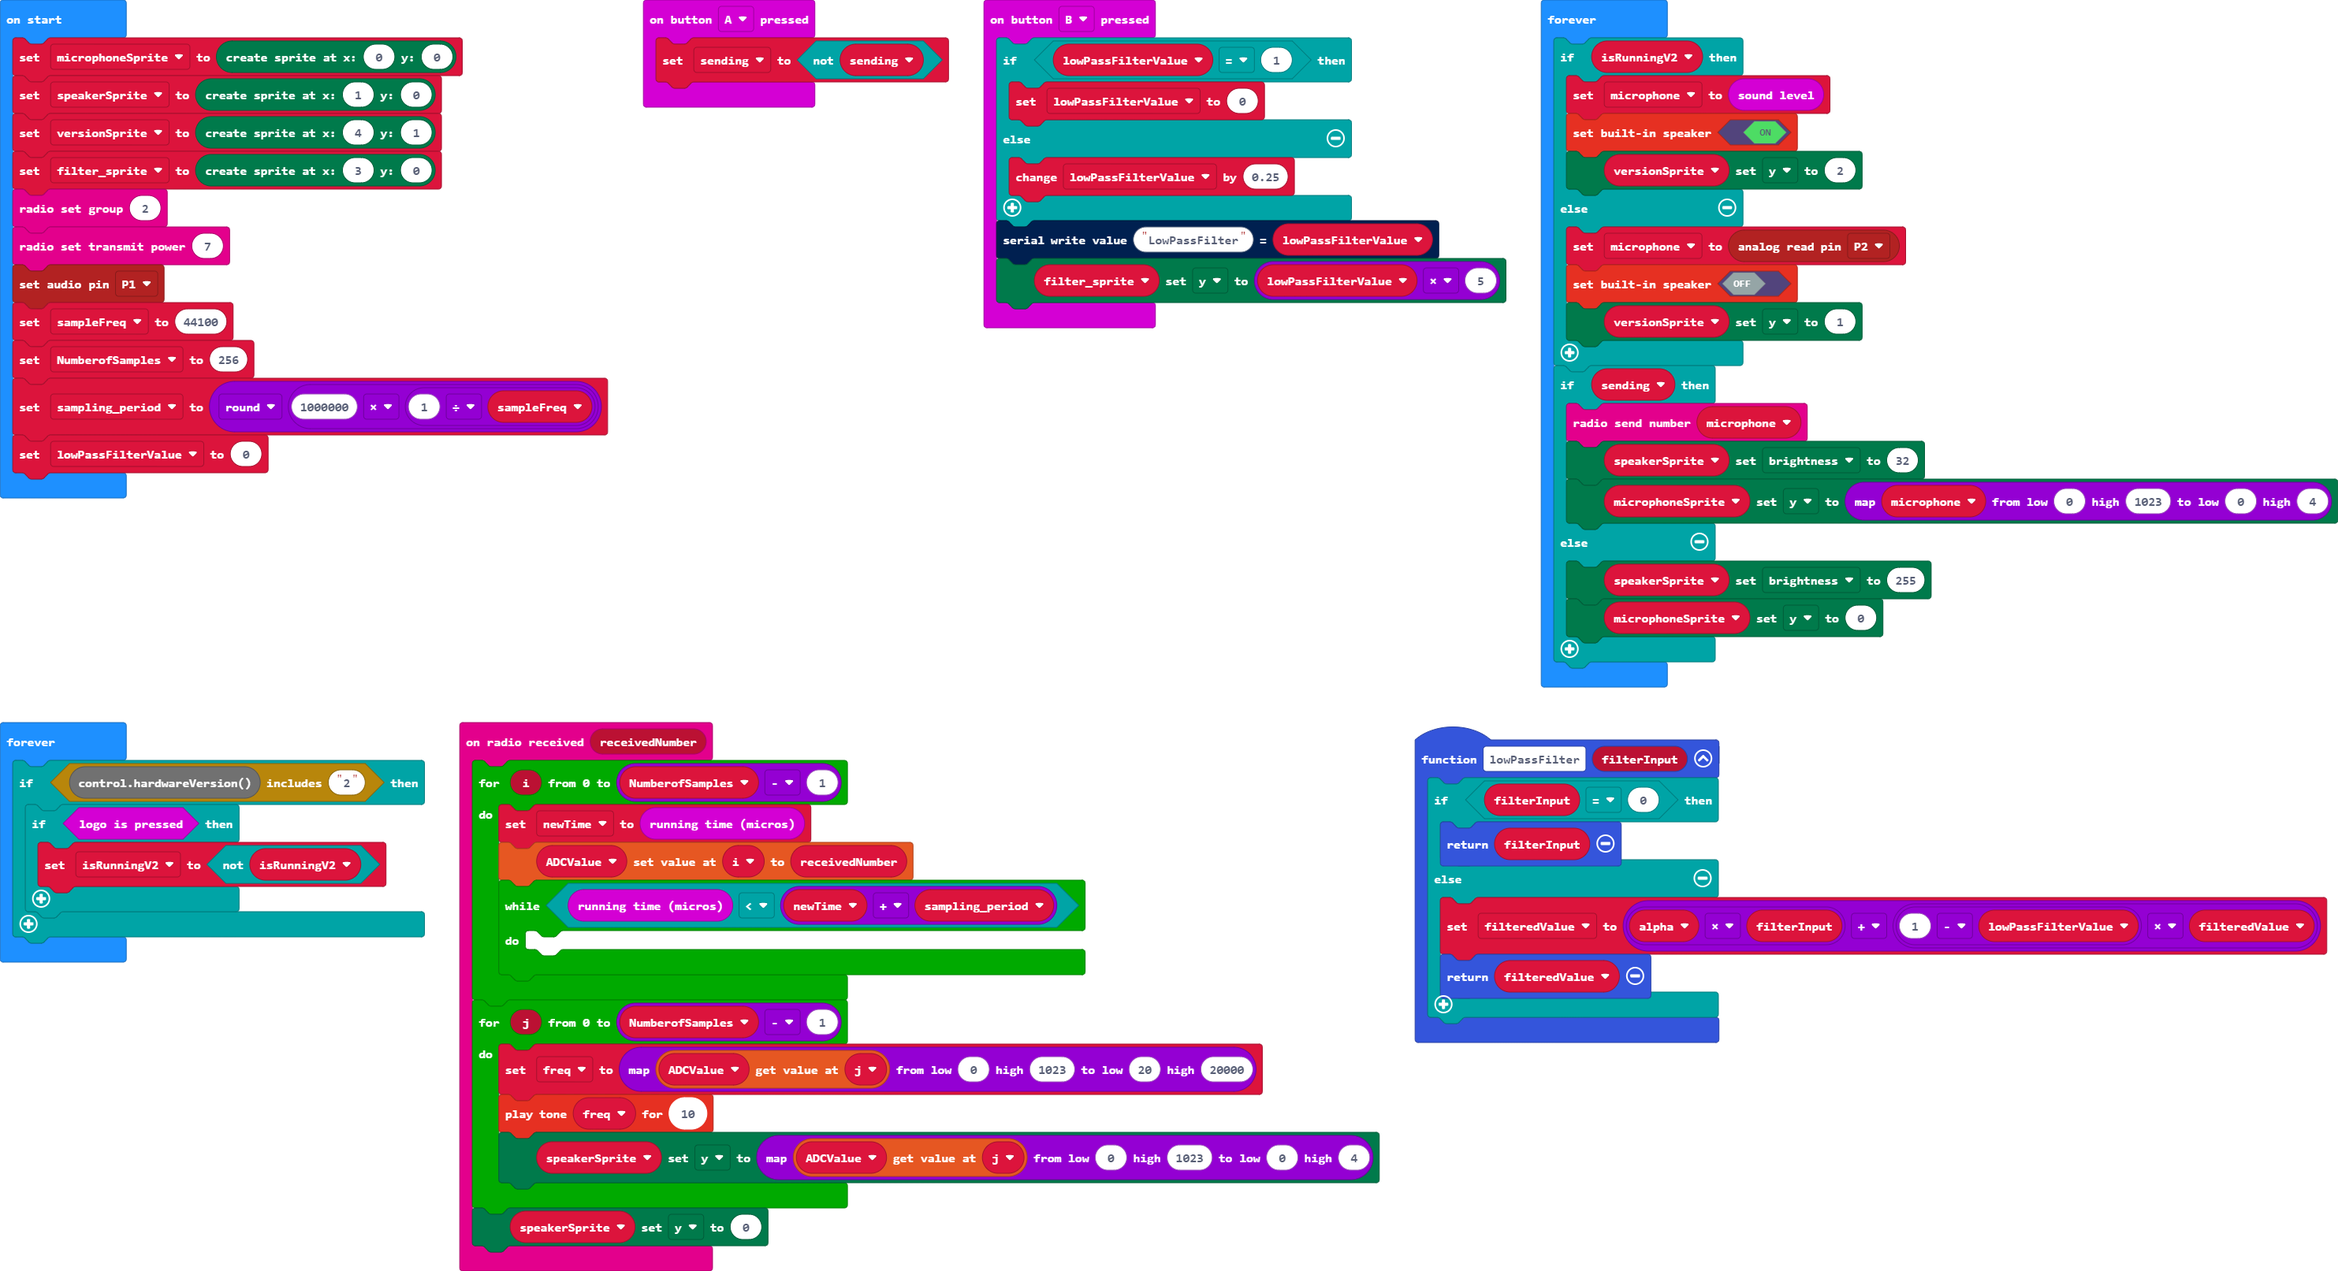
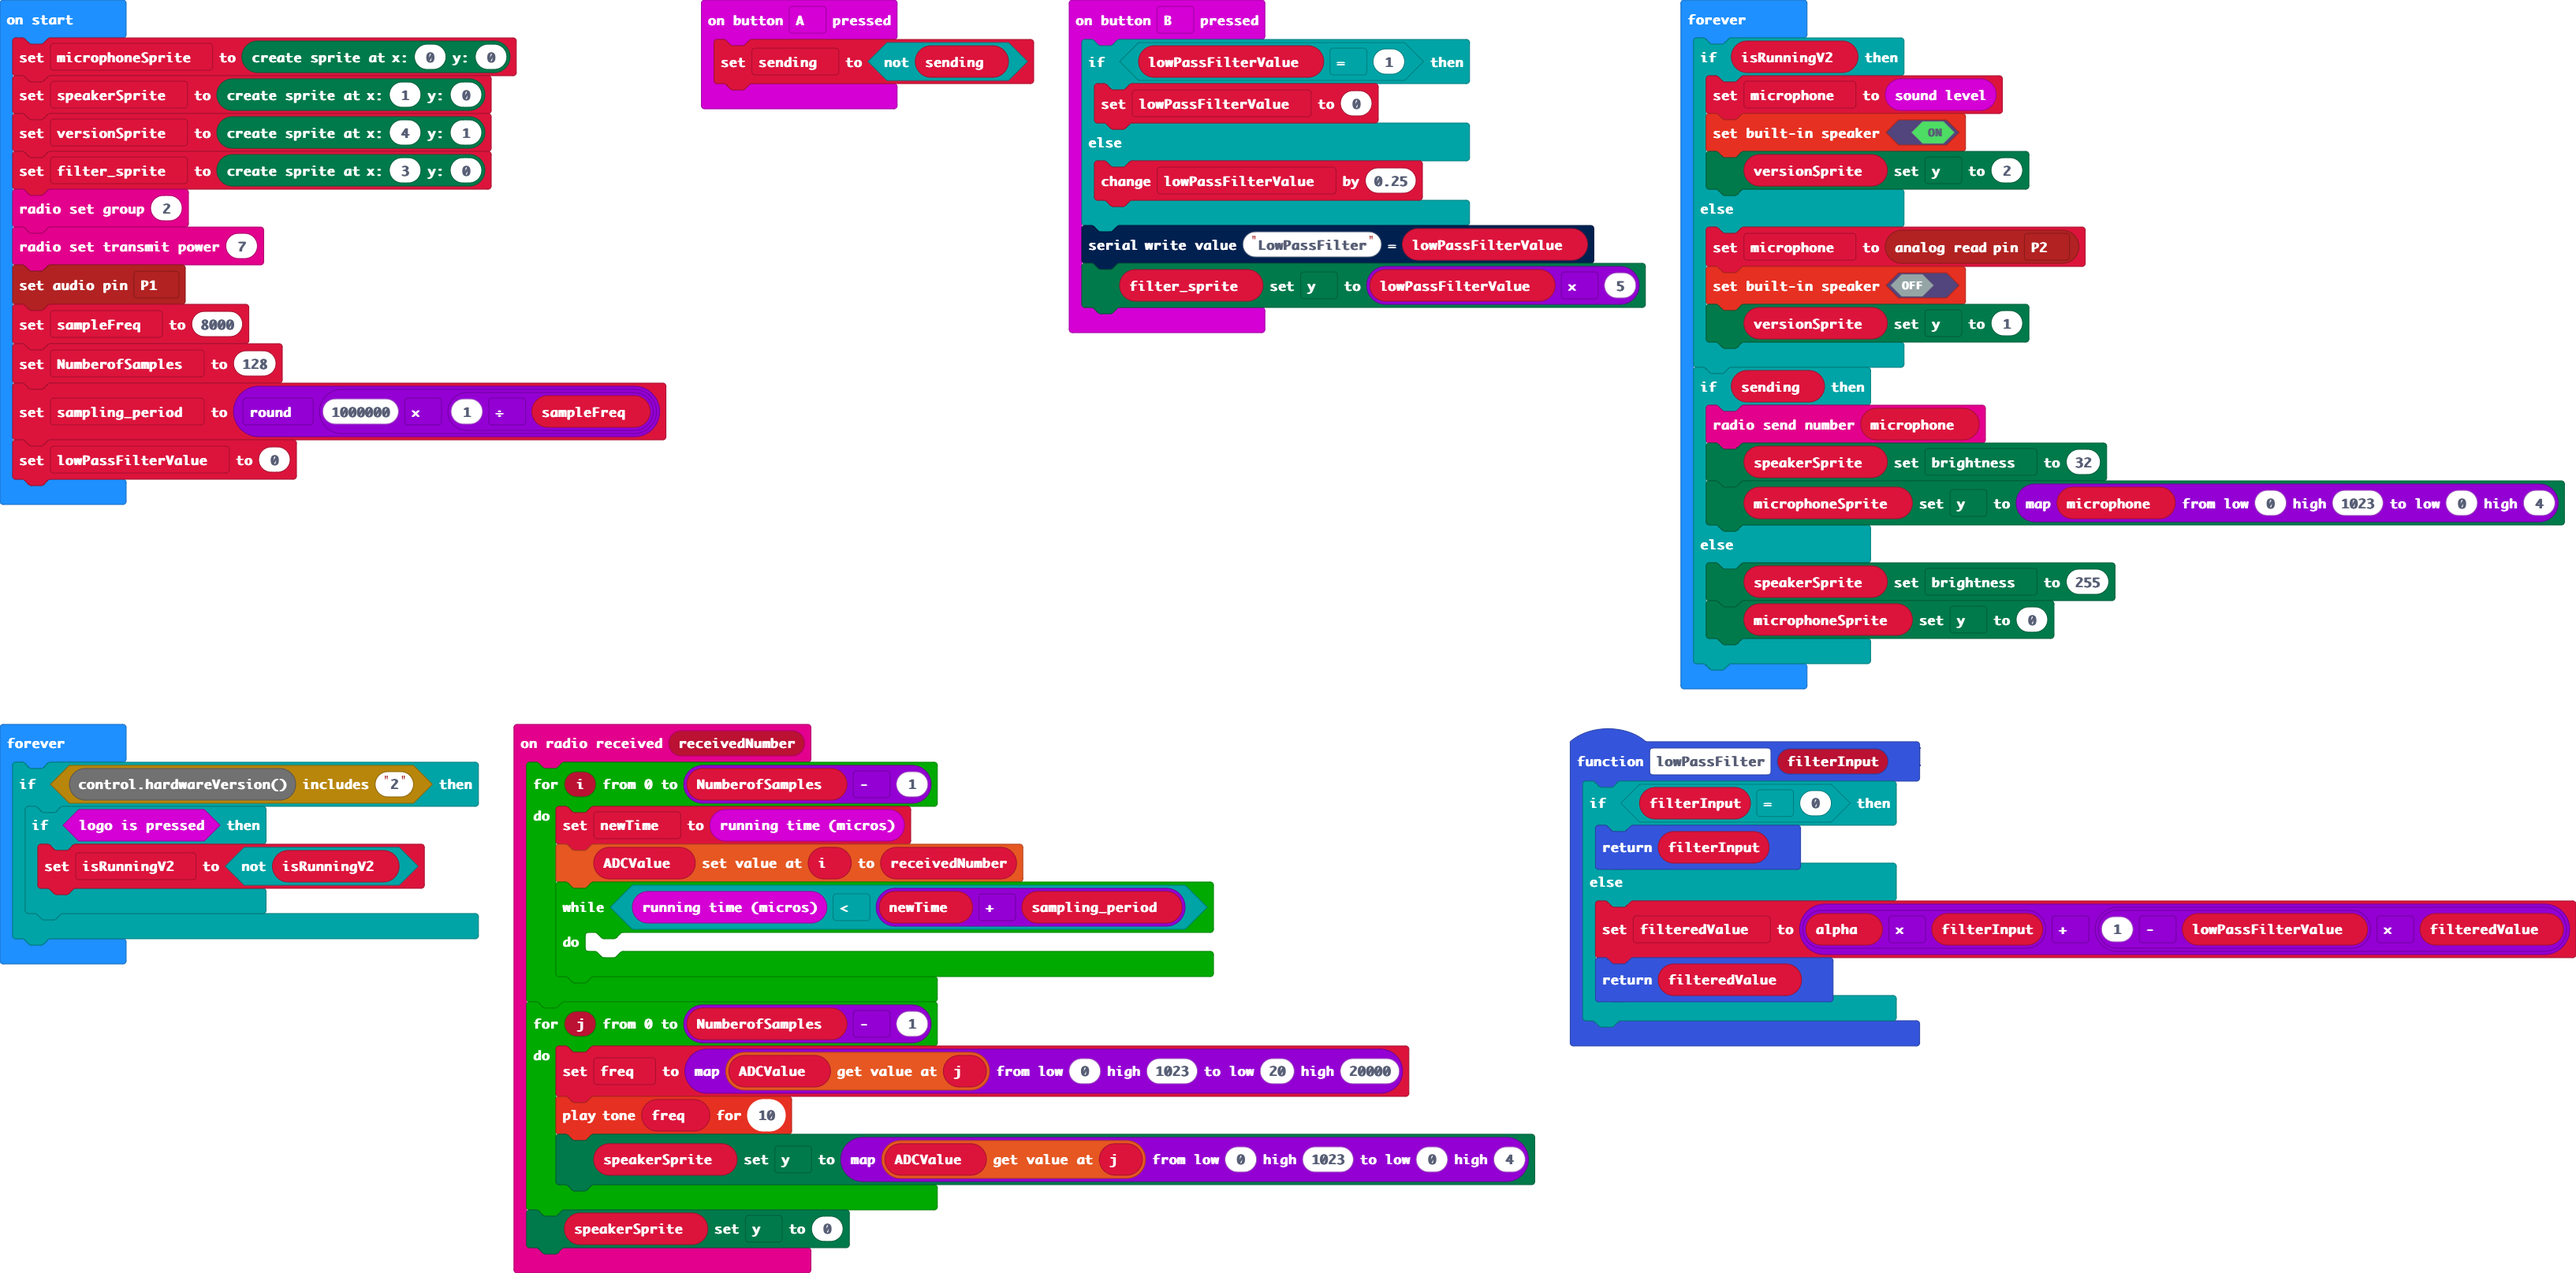
Updated lowpass filter

Changed region(s): [[0.2481, 0.0, 1.0, 0.8369], [0.0, 0.558, 0.6204, 1.0], [0.0, 0.0, 0.2792, 0.403]]

diff --git a/main.ts b/main.ts
@@ -15,11 +15,10 @@ radio.onReceivedNumber(function (receivedNumber) {
     speakerSprite.set(LedSpriteProperty.Y, 0)
 })
 function lowPassFilter (filterInput: number) {
-    if (filterInput == 0) {
+    if (lowPassFilterValue == 0) {
         return filterInput
     } else {
-        let alpha = 0
-        filteredValue = alpha * filterInput + (1 - lowPassFilterValue) * filteredValue
+        filteredValue = lowPassFilterValue * filterInput + (1 - lowPassFilterValue) * filteredValue
         return filteredValue
     }
 }
@@ -53,8 +52,8 @@ filter_sprite = game.createSprite(3, 0)
 radio.setGroup(2)
 radio.setTransmitPower(7)
 pins.setAudioPin(AnalogPin.P1)
-let sampleFreq = 44100
-NumberofSamples = 256
+let sampleFreq = 8000
+NumberofSamples = 128
 sampling_period = Math.round(1000000 * (1 / sampleFreq))
 lowPassFilterValue = 0
 basic.forever(function () {
